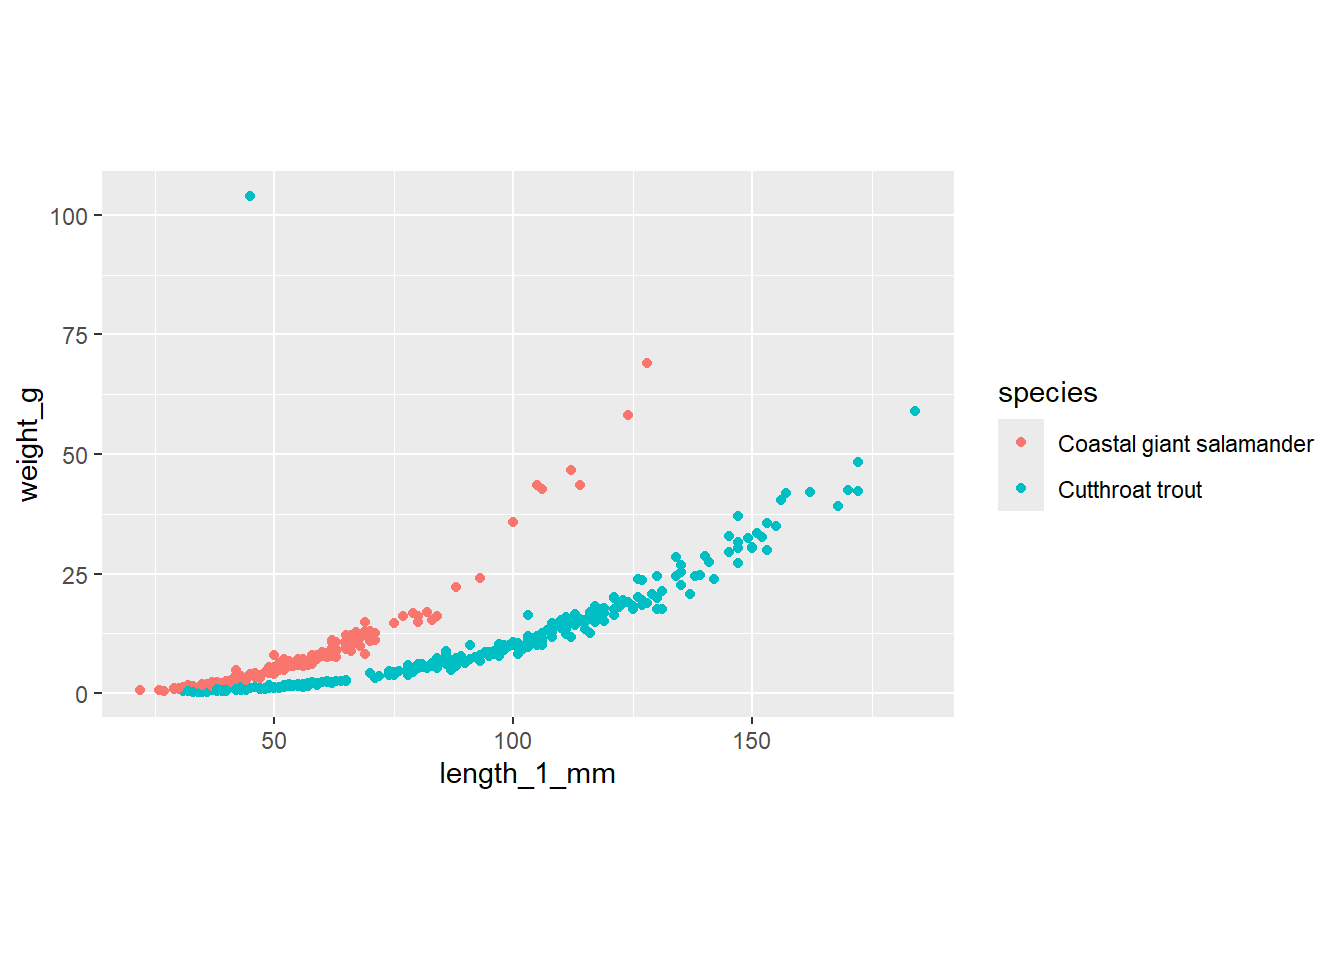
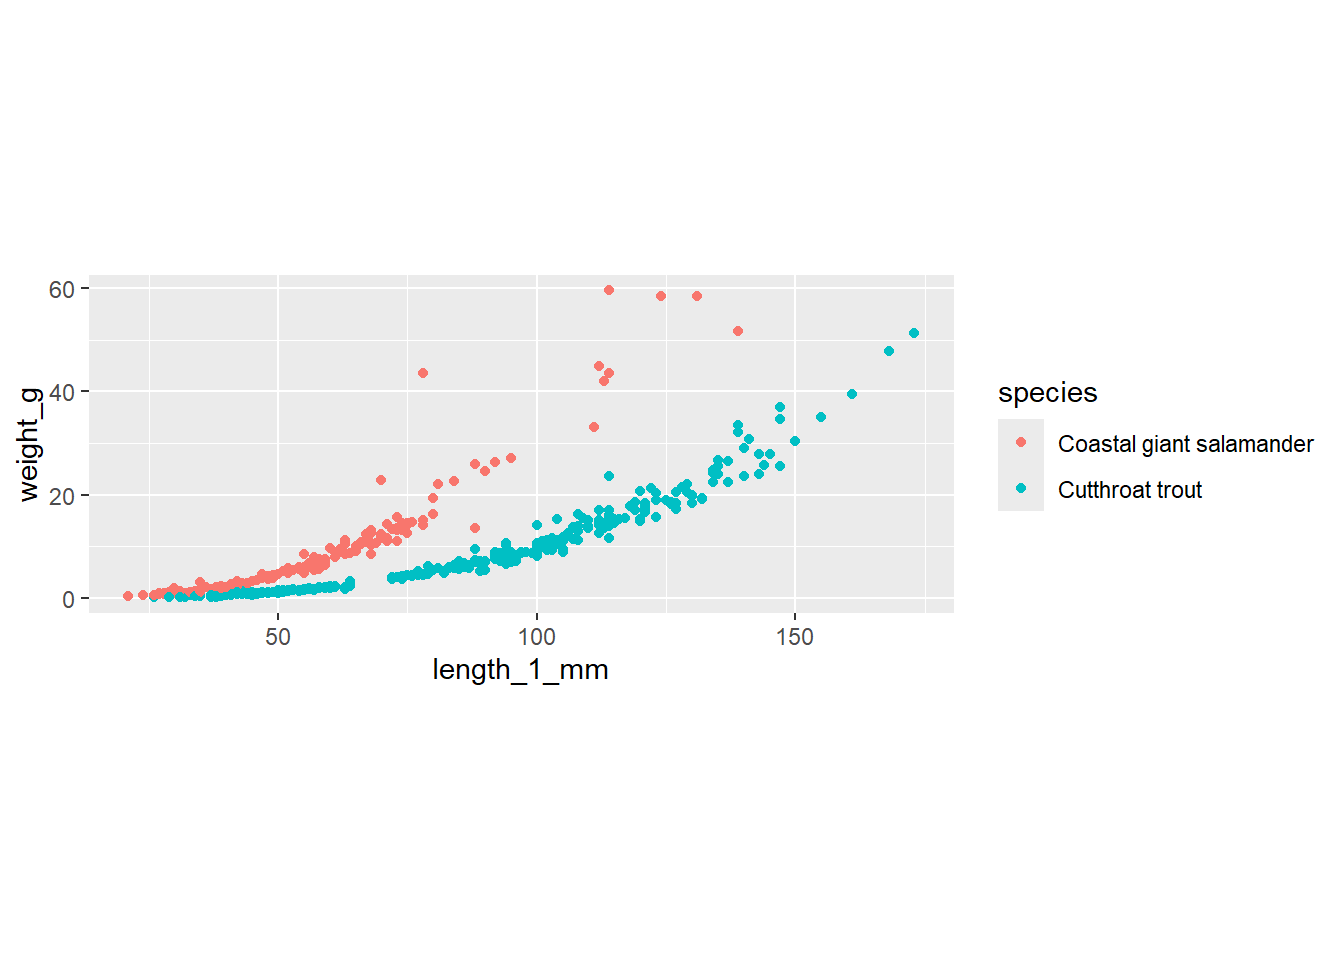
ecr update

diff --git a/docs/ggplot.html b/docs/ggplot.html
@@ -2,12 +2,12 @@
 <html xmlns="http://www.w3.org/1999/xhtml" lang="en" xml:lang="en"><head>
 
 <meta charset="utf-8">
-<meta name="generator" content="quarto-1.5.57">
+<meta name="generator" content="quarto-1.6.42">
 
 <meta name="viewport" content="width=device-width, initial-scale=1.0, user-scalable=yes">
 
 
-<title>Introduction to ggplot – Cawthon ECR R</title>
+<title>Introduction to ggplot – ECR R</title>
 <style>
 code{white-space: pre-wrap;}
 span.smallcaps{font-variant: small-caps;}
@@ -69,12 +69,12 @@ pre > code.sourceCode > span > a:first-child::before { text-decoration: underlin
 <script src="site_libs/quarto-html/tippy.umd.min.js"></script>
 <script src="site_libs/quarto-html/anchor.min.js"></script>
 <link href="site_libs/quarto-html/tippy.css" rel="stylesheet">
-<link href="site_libs/quarto-html/quarto-syntax-highlighting.css" rel="stylesheet" class="quarto-color-scheme" id="quarto-text-highlighting-styles">
-<link href="site_libs/quarto-html/quarto-syntax-highlighting-dark.css" rel="stylesheet" class="quarto-color-scheme quarto-color-alternate" id="quarto-text-highlighting-styles">
+<link href="site_libs/quarto-html/quarto-syntax-highlighting-2f5df379a58b258e96c21c0638c20c03.css" rel="stylesheet" class="quarto-color-scheme" id="quarto-text-highlighting-styles">
+<link href="site_libs/quarto-html/quarto-syntax-highlighting-dark-b53751a350365c71b6c909e95f209ed1.css" rel="stylesheet" class="quarto-color-scheme quarto-color-alternate" id="quarto-text-highlighting-styles">
 <script src="site_libs/bootstrap/bootstrap.min.js"></script>
 <link href="site_libs/bootstrap/bootstrap-icons.css" rel="stylesheet">
-<link href="site_libs/bootstrap/bootstrap.min.css" rel="stylesheet" class="quarto-color-scheme" id="quarto-bootstrap" data-mode="light">
-<link href="site_libs/bootstrap/bootstrap-dark.min.css" rel="stylesheet" class="quarto-color-scheme quarto-color-alternate" id="quarto-bootstrap" data-mode="dark">
+<link href="site_libs/bootstrap/bootstrap-f3c2ea88cadbcfb37ba28ffa2c97cfc1.min.css" rel="stylesheet" append-hash="true" class="quarto-color-scheme" id="quarto-bootstrap" data-mode="light">
+<link href="site_libs/bootstrap/bootstrap-dark-6ba7eec4a2208919a95f02f04d49e730.min.css" rel="stylesheet" append-hash="true" class="quarto-color-scheme quarto-color-alternate" id="quarto-bootstrap" data-mode="dark">
 <script id="quarto-search-options" type="application/json">{
   "location": "navbar",
   "copy-button": false,
@@ -115,7 +115,7 @@ pre > code.sourceCode > span > a:first-child::before { text-decoration: underlin
       <div class="navbar-container container-fluid">
       <div class="navbar-brand-container mx-auto">
     <a class="navbar-brand" href="./index.html">
-    <span class="navbar-title">Cawthon ECR R</span>
+    <span class="navbar-title">ECR R</span>
     </a>
   </div>
             <div id="quarto-search" class="" title="Search"></div>
@@ -263,12 +263,12 @@ pre > code.sourceCode > span > a:first-child::before { text-decoration: underlin
 <pre><code># A tibble: 6 × 7
    year sitecode reach  pass species                  length_1_mm weight_g
   &lt;dbl&gt; &lt;chr&gt;    &lt;chr&gt; &lt;dbl&gt; &lt;chr&gt;                          &lt;dbl&gt;    &lt;dbl&gt;
-1  1992 MACKOG-L L         1 Cutthroat trout                  116     12.5
-2  2010 MACKCC-L L         1 Coastal giant salamander         114     43.5
-3  2018 MACKOG-M M         1 Coastal giant salamander          54      5.8
-4  1996 MACKOG-L L         1 Cutthroat trout                  145     29.6
-5  2008 MACKOG-U U         1 Cutthroat trout                   50      1.2
-6  1995 MACKOG-U U         1 Cutthroat trout                  111     13.9</code></pre>
+1  1992 MACKCC-L L         1 Cutthroat trout                   50     1.35
+2  2018 MACKCC-M M         2 Coastal giant salamander          56     6.8 
+3  1996 MACKOG-M M         1 Cutthroat trout                   44     0.85
+4  2016 MACKCC-U U         2 Coastal giant salamander          66    10.4 
+5  2011 MACKCC-L L         1 Coastal giant salamander          70    12.4 
+6  2010 MACKOG-M M         2 Cutthroat trout                   73     4.08</code></pre>
 </div>
 </div>
 <p>The first step is to pass our data to <code>ggplot()</code> - this will not produce any output.</p>
@@ -881,8 +881,6 @@ window.document.addEventListener("DOMContentLoaded", function (event) {
   });
   clipboard.on('success', onCopySuccess);
   if (window.document.getElementById('quarto-embedded-source-code-modal')) {
-    // For code content inside modals, clipBoardJS needs to be initialized with a container option
-    // TODO: Check when it could be a function (https://github.com/zenorocha/clipboard.js/issues/860)
     const clipboardModal = new window.ClipboardJS('.code-copy-button[data-in-quarto-modal]', {
       text: getTextToCopy,
       container: window.document.getElementById('quarto-embedded-source-code-modal')
@@ -993,7 +991,6 @@ window.document.addEventListener("DOMContentLoaded", function (event) {
       if (window.Quarto?.typesetMath) {
         window.Quarto.typesetMath(note);
       }
-      // TODO in 1.5, we should make sure this works without a callout special case
       if (note.classList.contains("callout")) {
         return note.outerHTML;
       } else {

diff --git a/docs/intro.html b/docs/intro.html
@@ -2,12 +2,12 @@
 <html xmlns="http://www.w3.org/1999/xhtml" lang="en" xml:lang="en"><head>
 
 <meta charset="utf-8">
-<meta name="generator" content="quarto-1.5.57">
+<meta name="generator" content="quarto-1.6.42">
 
 <meta name="viewport" content="width=device-width, initial-scale=1.0, user-scalable=yes">
 
 
-<title>Introduction to R – Cawthon ECR R</title>
+<title>Introduction to R – ECR R</title>
 <style>
 code{white-space: pre-wrap;}
 span.smallcaps{font-variant: small-caps;}
@@ -69,12 +69,12 @@ pre > code.sourceCode > span > a:first-child::before { text-decoration: underlin
 <script src="site_libs/quarto-html/tippy.umd.min.js"></script>
 <script src="site_libs/quarto-html/anchor.min.js"></script>
 <link href="site_libs/quarto-html/tippy.css" rel="stylesheet">
-<link href="site_libs/quarto-html/quarto-syntax-highlighting.css" rel="stylesheet" class="quarto-color-scheme" id="quarto-text-highlighting-styles">
-<link href="site_libs/quarto-html/quarto-syntax-highlighting-dark.css" rel="stylesheet" class="quarto-color-scheme quarto-color-alternate" id="quarto-text-highlighting-styles">
+<link href="site_libs/quarto-html/quarto-syntax-highlighting-2f5df379a58b258e96c21c0638c20c03.css" rel="stylesheet" class="quarto-color-scheme" id="quarto-text-highlighting-styles">
+<link href="site_libs/quarto-html/quarto-syntax-highlighting-dark-b53751a350365c71b6c909e95f209ed1.css" rel="stylesheet" class="quarto-color-scheme quarto-color-alternate" id="quarto-text-highlighting-styles">
 <script src="site_libs/bootstrap/bootstrap.min.js"></script>
 <link href="site_libs/bootstrap/bootstrap-icons.css" rel="stylesheet">
-<link href="site_libs/bootstrap/bootstrap.min.css" rel="stylesheet" class="quarto-color-scheme" id="quarto-bootstrap" data-mode="light">
-<link href="site_libs/bootstrap/bootstrap-dark.min.css" rel="stylesheet" class="quarto-color-scheme quarto-color-alternate" id="quarto-bootstrap" data-mode="dark">
+<link href="site_libs/bootstrap/bootstrap-f3c2ea88cadbcfb37ba28ffa2c97cfc1.min.css" rel="stylesheet" append-hash="true" class="quarto-color-scheme" id="quarto-bootstrap" data-mode="light">
+<link href="site_libs/bootstrap/bootstrap-dark-6ba7eec4a2208919a95f02f04d49e730.min.css" rel="stylesheet" append-hash="true" class="quarto-color-scheme quarto-color-alternate" id="quarto-bootstrap" data-mode="dark">
 <script id="quarto-search-options" type="application/json">{
   "location": "navbar",
   "copy-button": false,
@@ -115,7 +115,7 @@ pre > code.sourceCode > span > a:first-child::before { text-decoration: underlin
       <div class="navbar-container container-fluid">
       <div class="navbar-brand-container mx-auto">
     <a class="navbar-brand" href="./index.html">
-    <span class="navbar-title">Cawthon ECR R</span>
+    <span class="navbar-title">ECR R</span>
     </a>
   </div>
             <div id="quarto-search" class="" title="Search"></div>
@@ -1129,8 +1129,6 @@ window.document.addEventListener("DOMContentLoaded", function (event) {
   });
   clipboard.on('success', onCopySuccess);
   if (window.document.getElementById('quarto-embedded-source-code-modal')) {
-    // For code content inside modals, clipBoardJS needs to be initialized with a container option
-    // TODO: Check when it could be a function (https://github.com/zenorocha/clipboard.js/issues/860)
     const clipboardModal = new window.ClipboardJS('.code-copy-button[data-in-quarto-modal]', {
       text: getTextToCopy,
       container: window.document.getElementById('quarto-embedded-source-code-modal')
@@ -1241,7 +1239,6 @@ window.document.addEventListener("DOMContentLoaded", function (event) {
       if (window.Quarto?.typesetMath) {
         window.Quarto.typesetMath(note);
       }
-      // TODO in 1.5, we should make sure this works without a callout special case
       if (note.classList.contains("callout")) {
         return note.outerHTML;
       } else {

diff --git a/docs/github.html b/docs/github.html
@@ -2,12 +2,12 @@
 <html xmlns="http://www.w3.org/1999/xhtml" lang="en" xml:lang="en"><head>
 
 <meta charset="utf-8">
-<meta name="generator" content="quarto-1.5.57">
+<meta name="generator" content="quarto-1.6.42">
 
 <meta name="viewport" content="width=device-width, initial-scale=1.0, user-scalable=yes">
 
 
-<title>RStudio and GitHub – Cawthon ECR R</title>
+<title>RStudio and GitHub – ECR R</title>
 <style>
 code{white-space: pre-wrap;}
 span.smallcaps{font-variant: small-caps;}
@@ -69,12 +69,12 @@ pre > code.sourceCode > span > a:first-child::before { text-decoration: underlin
 <script src="site_libs/quarto-html/tippy.umd.min.js"></script>
 <script src="site_libs/quarto-html/anchor.min.js"></script>
 <link href="site_libs/quarto-html/tippy.css" rel="stylesheet">
-<link href="site_libs/quarto-html/quarto-syntax-highlighting.css" rel="stylesheet" class="quarto-color-scheme" id="quarto-text-highlighting-styles">
-<link href="site_libs/quarto-html/quarto-syntax-highlighting-dark.css" rel="stylesheet" class="quarto-color-scheme quarto-color-alternate" id="quarto-text-highlighting-styles">
+<link href="site_libs/quarto-html/quarto-syntax-highlighting-2f5df379a58b258e96c21c0638c20c03.css" rel="stylesheet" class="quarto-color-scheme" id="quarto-text-highlighting-styles">
+<link href="site_libs/quarto-html/quarto-syntax-highlighting-dark-b53751a350365c71b6c909e95f209ed1.css" rel="stylesheet" class="quarto-color-scheme quarto-color-alternate" id="quarto-text-highlighting-styles">
 <script src="site_libs/bootstrap/bootstrap.min.js"></script>
 <link href="site_libs/bootstrap/bootstrap-icons.css" rel="stylesheet">
-<link href="site_libs/bootstrap/bootstrap.min.css" rel="stylesheet" class="quarto-color-scheme" id="quarto-bootstrap" data-mode="light">
-<link href="site_libs/bootstrap/bootstrap-dark.min.css" rel="stylesheet" class="quarto-color-scheme quarto-color-alternate" id="quarto-bootstrap" data-mode="dark">
+<link href="site_libs/bootstrap/bootstrap-f3c2ea88cadbcfb37ba28ffa2c97cfc1.min.css" rel="stylesheet" append-hash="true" class="quarto-color-scheme" id="quarto-bootstrap" data-mode="light">
+<link href="site_libs/bootstrap/bootstrap-dark-6ba7eec4a2208919a95f02f04d49e730.min.css" rel="stylesheet" append-hash="true" class="quarto-color-scheme quarto-color-alternate" id="quarto-bootstrap" data-mode="dark">
 <script id="quarto-search-options" type="application/json">{
   "location": "navbar",
   "copy-button": false,
@@ -115,7 +115,7 @@ pre > code.sourceCode > span > a:first-child::before { text-decoration: underlin
       <div class="navbar-container container-fluid">
       <div class="navbar-brand-container mx-auto">
     <a class="navbar-brand" href="./index.html">
-    <span class="navbar-title">Cawthon ECR R</span>
+    <span class="navbar-title">ECR R</span>
     </a>
   </div>
             <div id="quarto-search" class="" title="Search"></div>
@@ -514,8 +514,6 @@ window.document.addEventListener("DOMContentLoaded", function (event) {
   });
   clipboard.on('success', onCopySuccess);
   if (window.document.getElementById('quarto-embedded-source-code-modal')) {
-    // For code content inside modals, clipBoardJS needs to be initialized with a container option
-    // TODO: Check when it could be a function (https://github.com/zenorocha/clipboard.js/issues/860)
     const clipboardModal = new window.ClipboardJS('.code-copy-button[data-in-quarto-modal]', {
       text: getTextToCopy,
       container: window.document.getElementById('quarto-embedded-source-code-modal')
@@ -626,7 +624,6 @@ window.document.addEventListener("DOMContentLoaded", function (event) {
       if (window.Quarto?.typesetMath) {
         window.Quarto.typesetMath(note);
       }
-      // TODO in 1.5, we should make sure this works without a callout special case
       if (note.classList.contains("callout")) {
         return note.outerHTML;
       } else {
